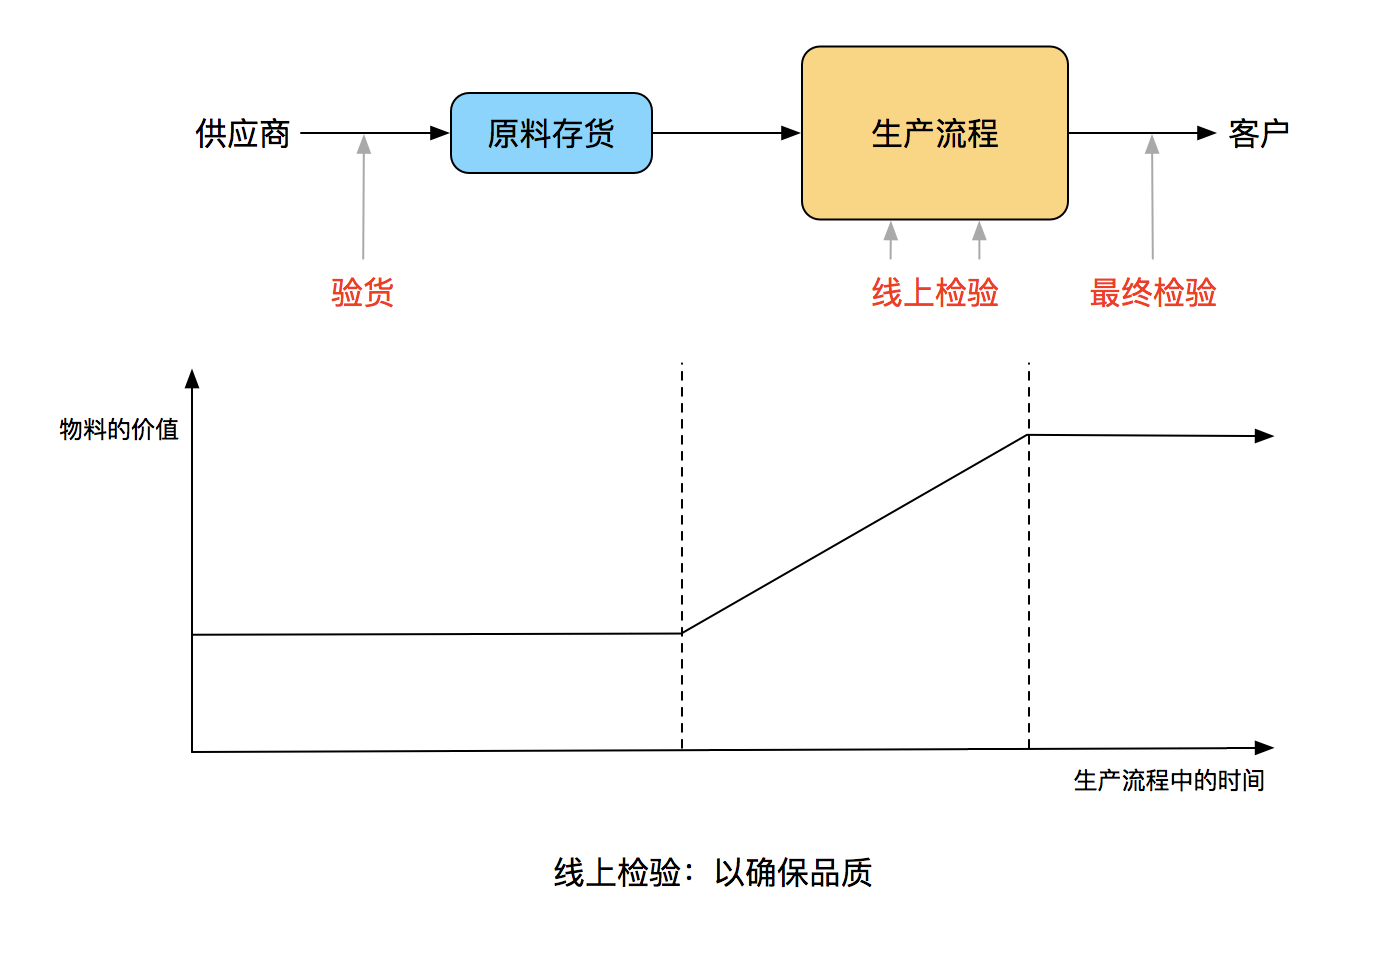
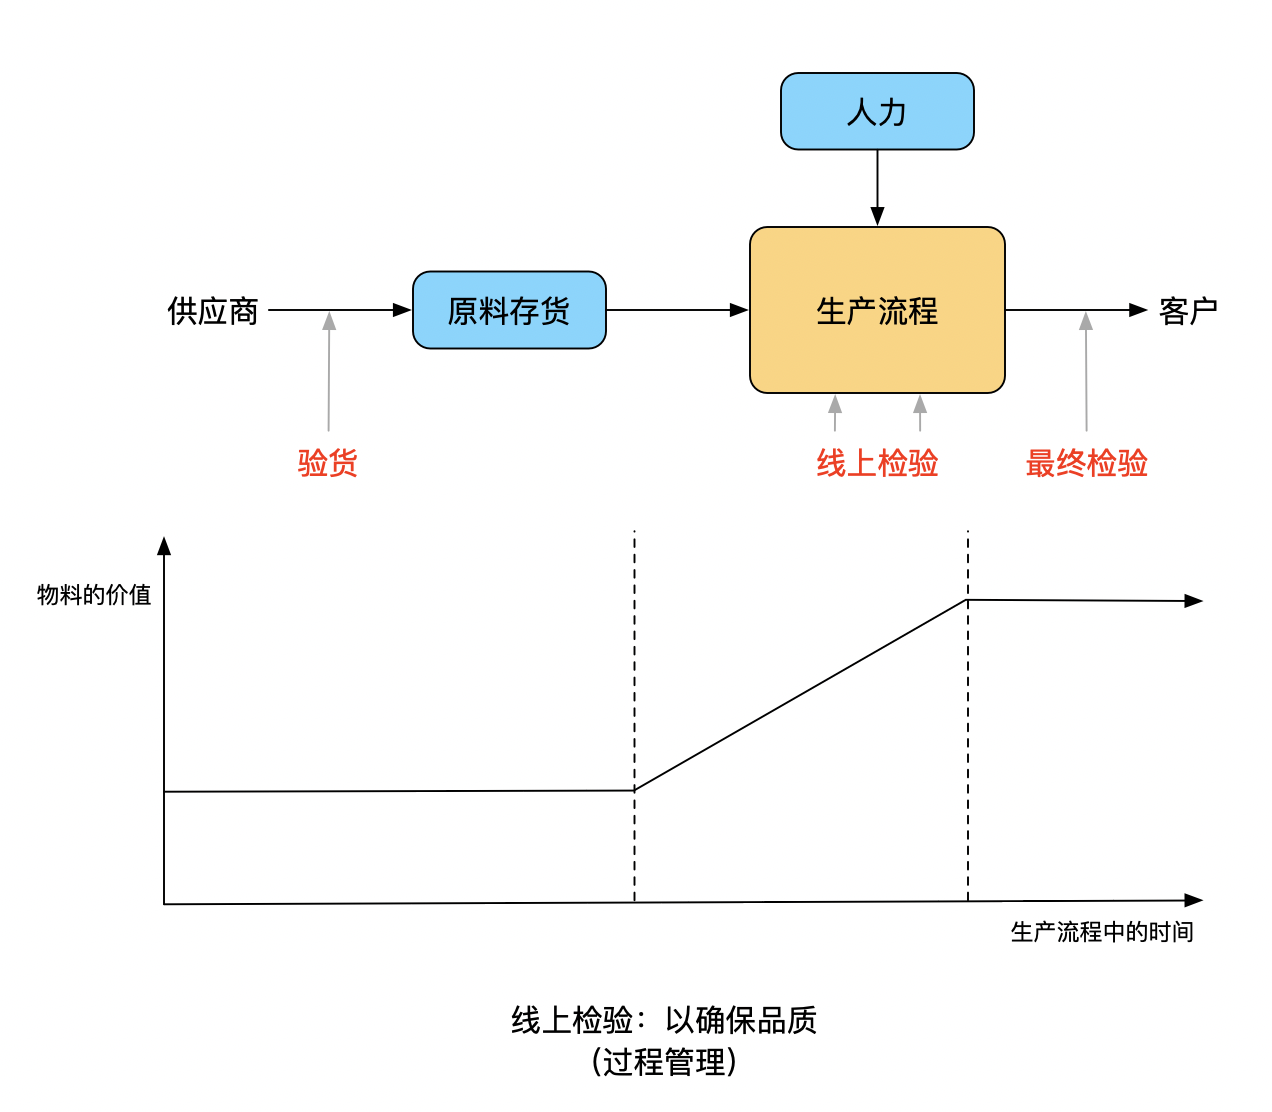
feature: 分享之后, 重新调整格鲁夫第一课中, 早餐店的生产线.

diff --git a/_posts/blog/2018-12-22-build-team-series-grove-high-output-management-chapter-1.md b/_posts/blog/2018-12-22-build-team-series-grove-high-output-management-chapter-1.md
@@ -21,6 +21,10 @@ category: 团队
 * [格鲁夫，教硅谷如何做生意的人]
 * [Andy Grove, Who Taught Silicon Valley How to Do Business]
 
+Note：
+
+> 当前主题，整理有单独的 keynote，也在美团 mit 技术学院中录制有分享视频。
+
 
 ## 1. 单次产品的生产
 
@@ -38,18 +42,18 @@ category: 团队
 
 Tips:
 
-> 突发需求：如果生产流程，以应对顾客`突发的各种需求`来设计，则会造成产能闲置，或存货成本提高.
+> **突发需求**：如果生产流程，以应对顾客`突发的各种需求`来设计，则会造成产能闲置，或存货成本提高.
 
 ### 1.2. 瓶颈步骤
 
 在主体流程中，找出**瓶颈步骤**：
 
-1. 找出瓶颈步骤
-2. 拟订并发流程
+1. 找出`瓶颈步骤`
+2. 拟订`并发流程`
 
 ### 1.3. 生产的三大阶段
 
-任何生产，都有 3 大阶段，必不可少：
+任何生产，都有 **3 大阶段**，必不可少：
 
 1. **制造**：物理、化学变化
 1. **组装**：零件组装成成品（组合策略）
@@ -59,32 +63,38 @@ Tips:
 
 在现实场景中，应用时，会有额外考量的因素：
 
-1. 抽象 --> 场景复原
-1. 简 --> 繁
-1. 确定潜在关键点
+1. `抽象` --> `场景复原`
+1. `简` --> `繁`
+1. 确定`潜在关键点`
 
 
 ### 1.5. 找出最佳策略
 
 
-目标：以最低成本，达到理想的运送速度以及品质，即为，最佳策略.
+**目标**：以最低成本，达到理想的运送速度以及品质，即为，最佳策略.
 
 
 ### 1.6. 测试与验货
 
-**常识**：连续性作业，并不能自动保证`较低的成本`和`较好的品质`；需要额外的测试和验货。
+**常识**：
 
-**线上检视**：一种测试方法，通过充分、必要条件的跟踪和监控，不牺牲产品。
+> **连续性作业**，并不能自动保证`较低的成本`和`较好的品质`；需要额外的测试和验货。
+
+**线上检视**：一种测试方法，通过`充分`、`必要`条件的跟踪和监控，不牺牲产品。
 
 Tips:
 
-> 1.原料存货的作用：新进的原料，验货不合格时，可以当场退货，而不会停工。
+> 1.原料存货的**作用**：新进的原料，验货不合格时，可以当场退货，而不会停工。
 > 
-> 2.原料存货的成本：存储、管理成本。
+> 2.原料存货的**成本**：存储、管理成本。
+
+![](/images/build-team-series/high-output-management/online-check.png)
 
 ### 1.7. 及早发现、及早解决
 
-**常识**：所有的生产流程，都有一个共同特性：原料在流程中，会变得越来越有价值。
+**常识**：
+
+> 所有的生产流程，都有一个**共同特性**：原料在流程中，会变得越来越有价值。
 
 **在早期解决问题**：及早发现、及早解决，可以是我们在生产流程中，价值最低阶段修正问题。
 
@@ -99,15 +109,19 @@ Tips:
 
 Tips:
 
-> 我们不仅应辛勤工作，还得懂得如何工作。
+> 我们不仅应`辛勤工作`，还得`懂得如何工作`。
+
+**备注**：上述的前提，内心认可辛勤工作，并已经在持续的辛勤工作了。
 
 ### 2.1. 设定指标
 
 针对规模化的生产，掌控全局，就是要掌控 3 个方面：
 
-1. 生产的产品
-1. 产生的利润
-1. 客户的满意度
+1. **供需**：
+	1. 生产的产品
+	1. 销售的产品
+1. **盈利**：产生的利润
+1. **竞争力**：服务品质，客户的满意度
 
 Tips:
 
@@ -137,7 +151,7 @@ Tips:
 
 Tips:
 
-> **配对指标**：用于作为补充指标，避免关键指标的过度反馈，在反馈时，依赖`配对指标`了解可能的副作用。一般`关键指标`，关注量，需要`配对指标`，关注质。
+> **配对指标**：用于作为补充指标，避免关键指标的过度反馈，在反馈时，依赖`配对指标`了解可能的副作用。一般`关键指标`，关注`量`，需要`配对指标`，关注`质`。
 
 
 **指标的作用**：
@@ -176,6 +190,9 @@ Tips:
 2. 产出：最终产品
 3. 人力：人力资源
 
+
+![](/images/build-team-series/high-output-management/black-box.png)
+
 黑箱：弄清楚，内部生产流程，准确预估未来的产出。
 
 1. **先行指标**：两端的指标，
@@ -189,6 +206,10 @@ Tips:
 	1. 预测：每个月，预测未来 3 个月的收入/产出
 	2. 复盘：每个月，都复盘过去一个月的实际收入，反思跟预测的差异原因
 	3. 再预测：复盘后，继续预测未来 3 个月的收入/产出
+
+Note：
+
+> **对未来作预测**，然后**调整管理工作**，是一个「**提高产能**」的重要方法。
 
 线性指标，示例：
 
@@ -244,8 +265,8 @@ Tips：
 
 几个常识：
 
-1. 无法评估次品，会造成什么损害时，则，不该以客户对我们的信赖为赌注。
-2. 人有惰性，需制定明确的检查计划，此能增进效率及提高产能。
+1. **信誉**：无法评估次品，会造成什么损害时，则，不该以客户对我们的信赖为赌注。
+2. **制度**：人有惰性，需制定**明确的检查计划**，此能增进效率及提高产能。
 
 ### 2.6. 产能
 
@@ -280,6 +301,12 @@ Tips:
 > 1.**管理活动**，大约 30% 是没有必要的，即，70% 的管理活动，便能完成产出目标。
 > 
 > 2.区分`活动`和`产出`：强调并着眼于产出，才是提高产能的关键。
+> 
+>  * 在管理上通常很难分出何者是“活动”，何者是“产出”。
+> 
+>  * 且就像之前所提，强调并着眼于产出才是提高产能的关键；
+> 
+>  * 如果只是在管理活动上打转，付出再多资源和精力都是徒劳。
 
 疑问：
 
